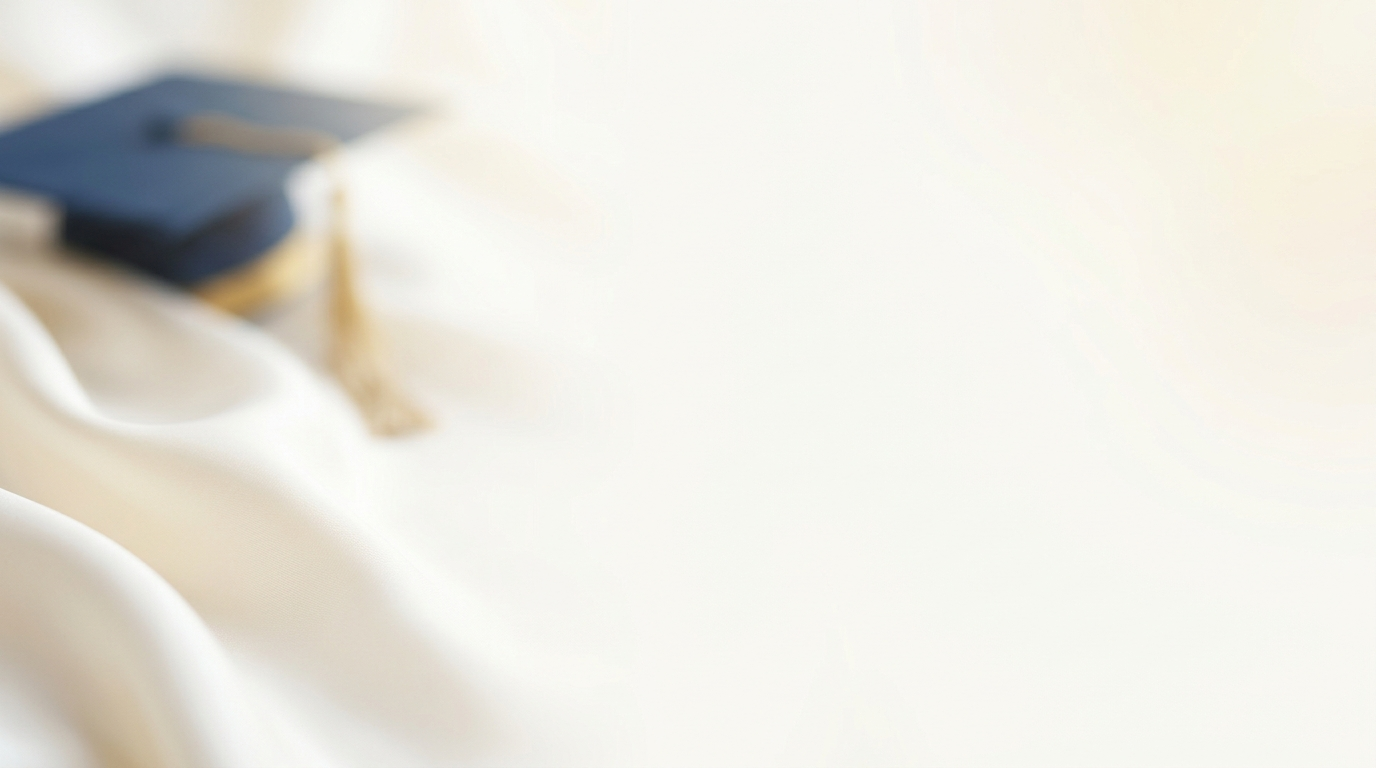
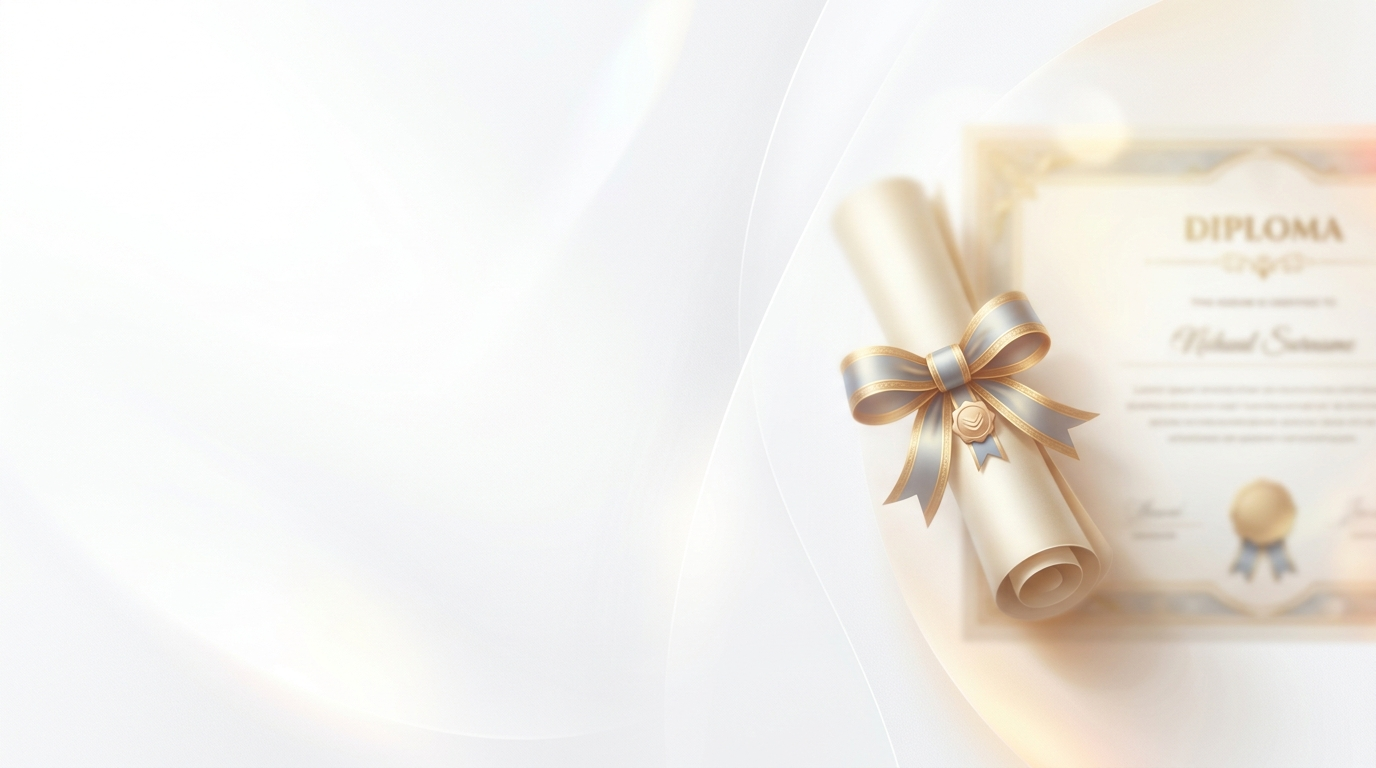
feat: implement random background for step 1 and fix mask opacity

diff --git a/src/components/quoter/Quoter.tsx b/src/components/quoter/Quoter.tsx
@@ -29,6 +29,7 @@ import logo from "@/assets/logo.png";
 import { supabase } from "@/lib/supabase";
 import { MEXICO_STATES } from "@/lib/mexico-locations";
 import bgStep1 from "@/assets/bg-step1.jpg";
+import bgStep1Alt from "@/assets/bg-step1.1.jpg";
 import bgStep2 from "@/assets/bg-step2.jpg";
 
 type Step = 1 | 2 | 3 | 4 | 5;
@@ -87,6 +88,7 @@ export function Quoter() {
   const [pricesLoaded, setPricesLoaded] = useState(false);
   const [turnstileToken, setTurnstileToken] = useState("");
   const [isMounted, setIsMounted] = useState(false);
+  const randomBg1 = useMemo(() => Math.random() > 0.5 ? bgStep1 : bgStep1Alt, []);
 
   useEffect(() => {
     setIsMounted(true);
@@ -299,14 +301,14 @@ export function Quoter() {
     <div className={`min-h-screen flex flex-col relative ${(step === 1 || step === 2) ? 'bg-white' : 'bg-[#F8FAFC]'}`}>
       {step === 1 && (
         <div 
-          className="absolute inset-0 pointer-events-none z-0 hidden sm:block opacity-60 xl:opacity-100 transition-opacity duration-1000"
+          className="absolute inset-0 pointer-events-none z-0 hidden sm:block opacity-70 xl:opacity-100 transition-opacity duration-1000"
           style={{
-            backgroundImage: `url(${bgStep1})`,
+            backgroundImage: `url(${randomBg1})`,
             backgroundPosition: 'right center',
             backgroundSize: 'cover',
             backgroundRepeat: 'no-repeat',
-            WebkitMaskImage: 'linear-gradient(to right, transparent 0%, transparent 35%, black 75%)',
-            maskImage: 'linear-gradient(to right, transparent 0%, transparent 35%, black 75%)',
+            WebkitMaskImage: 'linear-gradient(to right, transparent 0%, transparent 10%, black 30%)',
+            maskImage: 'linear-gradient(to right, transparent 0%, transparent 10%, black 30%)',
           }}
         />
       )}
